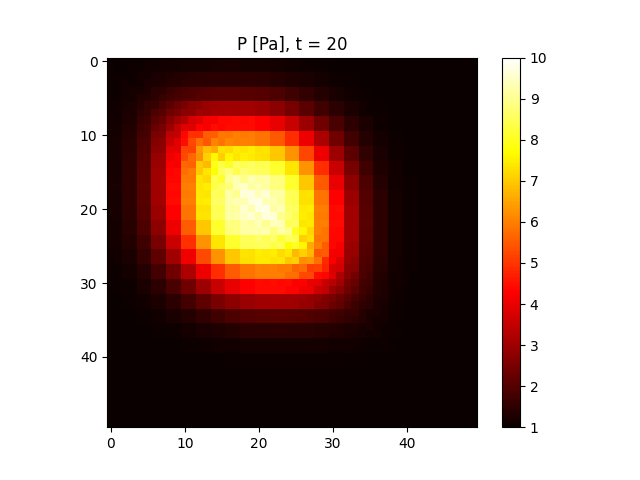
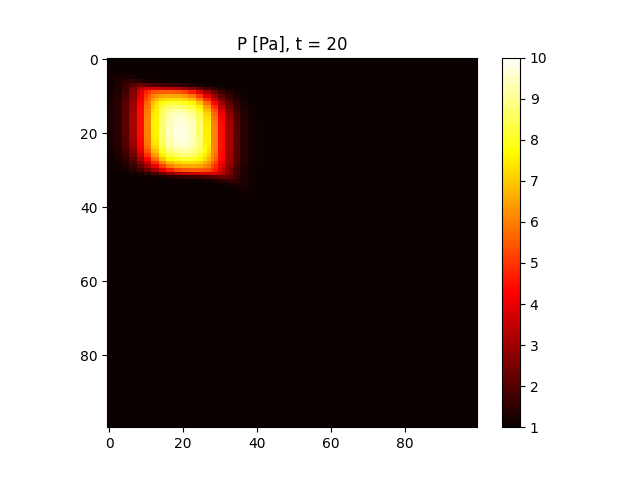
test explosions

diff --git a/2D.py b/2D.py
@@ -34,7 +34,7 @@ for j in range(100):
 
         U_i = U_(rho_i,u_i,P_i)
 
-        U_i = U_next(U_i,dx,"LF")
+        U_i = U_next(U_i,dx,"LW")
 
         Res = U_a_la_moins_un(U_i)
         rho[:,i] = Res[:,0]
@@ -53,5 +53,4 @@ for j in range(100):
         rho[i,:] = Res[:,0]
         ux[i,:] = Res[:,1]
         P[i,:] = Res[:,2]
-            
-
+           
